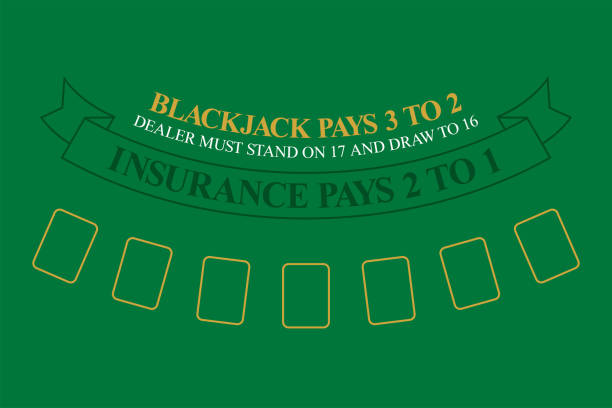
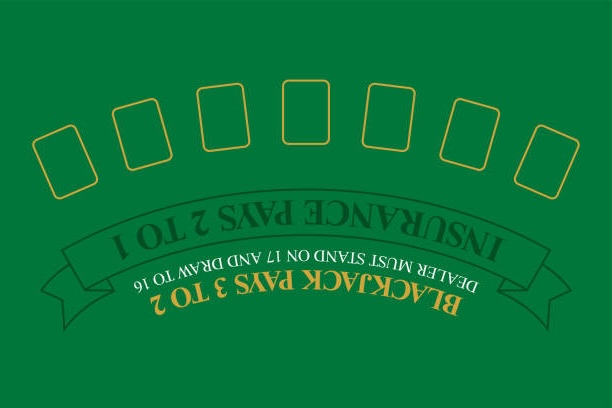
Background (Temp) Update

diff --git a/style.css b/style.css
@@ -5,7 +5,7 @@ body {
     text-align: center;
     margin: 0;
     padding: 0;
-    background-image: url('Game Images/Table.jpeg');
+    background-image: url('Game Images/BJ_Table.jpeg');
     background-size: cover;
     background-position: center;
     background-repeat: no-repeat;
